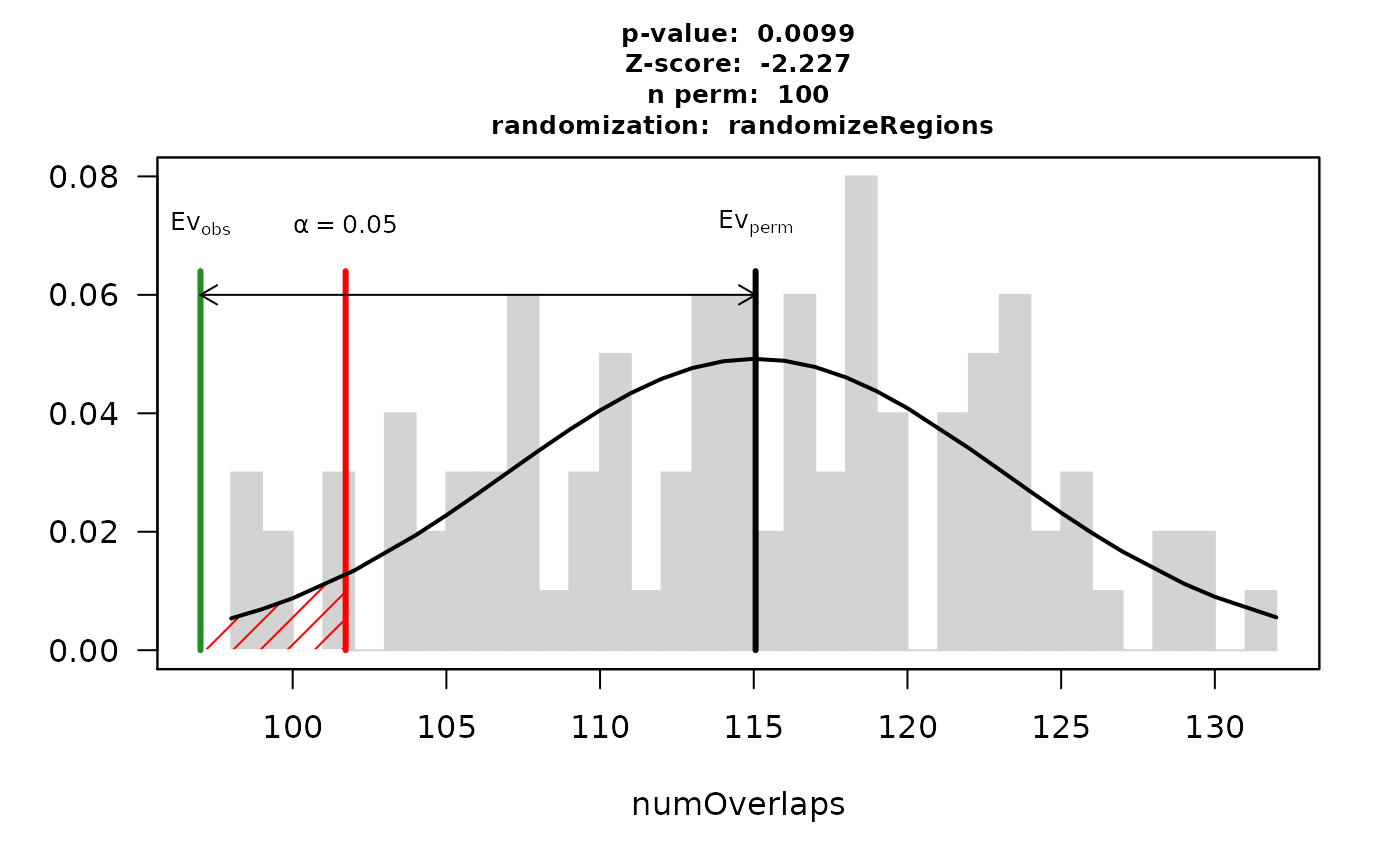
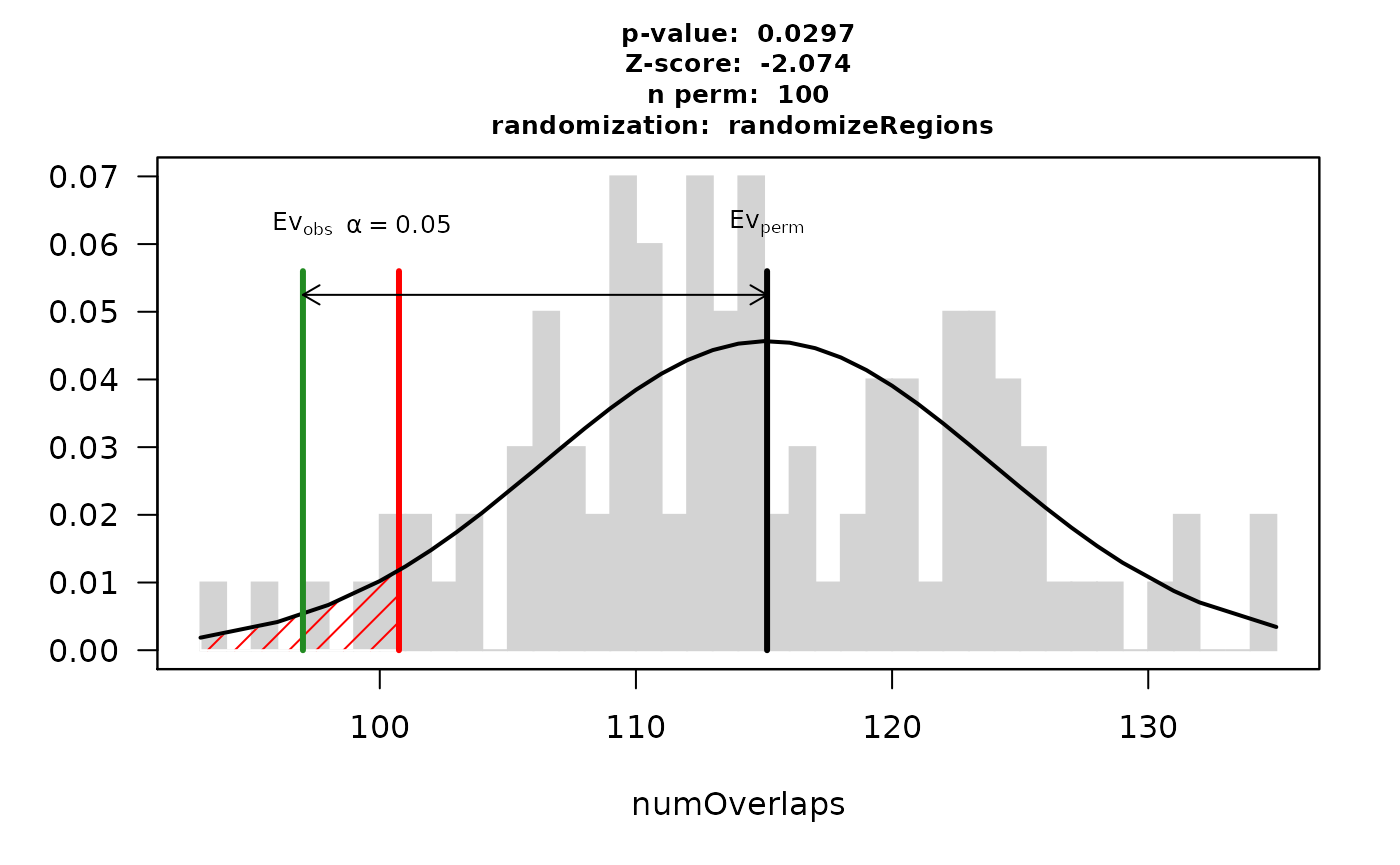
Deploying to gh-pages from  @ bd2509c11ede383ec329590210ebad35e240a6dc 🚀

diff --git a/articles/Geistlinger_CNVWorkshop.html b/articles/Geistlinger_CNVWorkshop.html
@@ -593,17 +593,17 @@ RaggedExperiment object schematic. Rows and columns represent genomic ranges and
 <pre><code>## DataFrame with 711 rows and 2 columns
 ##             weight       fcr
 ##          &lt;numeric&gt; &lt;numeric&gt;
-## NE001357   1176.20      6.44
-## NE001358   1289.06      6.61
-## NE001359   1078.48      6.45
-## NE001360   1200.02      4.65
-## NE001361   1030.02      5.44
+## NE001357   1273.89      6.33
+## NE001358    948.57      5.64
+## NE001359   1223.83      5.08
+## NE001360   1166.69      8.42
+## NE001361   1004.45      6.15
 ## ...            ...       ...
-## NE003962   1275.23      6.90
-## NE003963   1104.32      5.98
-## NE003966   1111.41      6.15
-## NE003967   1194.52      5.39
-## NE003968    987.77      6.38</code></pre>
+## NE003962   1088.90      7.25
+## NE003963   1070.24      5.35
+## NE003966   1270.36      6.12
+## NE003967   1061.96      6.88
+## NE003968   1116.48      4.60</code></pre>
 </div>
 </div>
 <div id="summarizing-individual-cnv-calls-across-a-population" class="section level3">
@@ -695,7 +695,7 @@ RaggedExperiment object schematic. Rows and columns represent genomic ranges and
 <div class="sourceCode" id="cb59"><pre class="downlit sourceCode r">
 <code class="sourceCode R"><span class="kw"><a href="https://rdrr.io/r/base/library.html">library</a></span><span class="op">(</span><span class="va">AnnotationHub</span><span class="op">)</span>
 <span class="va">ah</span> <span class="op">&lt;-</span> <span class="fu">AnnotationHub</span><span class="fu">::</span><span class="fu"><a href="https://rdrr.io/pkg/AnnotationHub/man/AnnotationHub-class.html">AnnotationHub</a></span><span class="op">(</span><span class="op">)</span></code></pre></div>
-<pre><code>## using temporary cache /tmp/RtmphNFqpH/BiocFileCache</code></pre>
+<pre><code>## using temporary cache /tmp/RtmpLQImfA/BiocFileCache</code></pre>
 <pre><code>## snapshotDate(): 2020-10-27</code></pre>
 <div class="sourceCode" id="cb62"><pre class="downlit sourceCode r">
 <code class="sourceCode R"><span class="va">ahDb</span> <span class="op">&lt;-</span> <span class="fu">AnnotationHub</span><span class="fu">::</span><span class="fu"><a href="https://rdrr.io/pkg/AnnotationHub/man/AnnotationHub-class.html">query</a></span><span class="op">(</span><span class="va">ah</span>, pattern <span class="op">=</span> <span class="fu"><a href="https://rdrr.io/r/base/c.html">c</a></span><span class="op">(</span><span class="st">"Bos taurus"</span>, <span class="st">"EnsDb"</span><span class="op">)</span><span class="op">)</span>
@@ -846,8 +846,8 @@ RaggedExperiment object schematic. Rows and columns represent genomic ranges and
     genome<span class="op">=</span><span class="st">"bosTau6"</span>, mask<span class="op">=</span><span class="cn">NA</span>, per.chromosome<span class="op">=</span><span class="cn">TRUE</span>, count.once<span class="op">=</span><span class="cn">TRUE</span><span class="op">)</span><span class="op">)</span>
 <span class="va">res</span></code></pre></div>
 <pre><code>## $numOverlaps
-## P-value: 0.0099009900990099
-## Z-score: -2.2272
+## P-value: 0.0297029702970297
+## Z-score: -2.074
 ## Number of iterations: 100
 ## Alternative: less
 ## Evaluation of the original region set: 97
@@ -859,8 +859,8 @@ RaggedExperiment object schematic. Rows and columns represent genomic ranges and
 <div class="sourceCode" id="cb78"><pre class="downlit sourceCode r">
 <code class="sourceCode R"><span class="fu"><a href="https://rdrr.io/r/base/summary.html">summary</a></span><span class="op">(</span><span class="va">res</span><span class="op">[[</span><span class="fl">1</span><span class="op">]</span><span class="op">]</span><span class="op">$</span><span class="va">permuted</span><span class="op">)</span></code></pre></div>
 <pre><code>##    Min. 1st Qu.  Median    Mean 3rd Qu.    Max. 
-##    98.0   108.0   115.0   115.1   122.0   132.0</code></pre>
-<p>The resulting permutation <em>p</em>-value indicates a significant depletion. Out of the 303 CNV regions, 97 overlap with at least one gene. In contrast, when repeatedly drawing random regions matching the CNV regions in size and chromosomal distribution, the mean number of overlapping regions across permutations was 115.1 <span class="math inline">\(\pm\)</span> 8.1.</p>
+##    93.0   110.0   114.0   115.1   122.2   135.0</code></pre>
+<p>The resulting permutation <em>p</em>-value indicates a significant depletion. Out of the 303 CNV regions, 97 overlap with at least one gene. In contrast, when repeatedly drawing random regions matching the CNV regions in size and chromosomal distribution, the mean number of overlapping regions across permutations was 115.1 <span class="math inline">\(\pm\)</span> 8.7.</p>
 <p>This finding is consistent with our observations across the whole genome (<a href="https://doi.org/10.1371/journal.pone.0157711">da Silva et al., 2016</a>) and findings from the 1000 Genomes Poject (<a href="https://www.nature.com/articles/nature15394">Sudmant et al., 2015</a>).</p>
 <div class="sourceCode" id="cb80"><pre class="downlit sourceCode r">
 <code class="sourceCode R"><span class="fu"><a href="https://rdrr.io/r/graphics/plot.default.html">plot</a></span><span class="op">(</span><span class="va">res</span><span class="op">)</span></code></pre></div>

diff --git a/index.html b/index.html
@@ -86,7 +86,7 @@
 <a href="#instructors-names-and-contact-information" class="anchor"></a>Instructor(s) name(s) and contact information</h1>
 <p>Ludwig Geistlinger, Marcel Ramos, Sehyun Oh, and Levi Waldron</p>
 <p>CUNY School of Public Health 55 W 125th St, New York, NY 10027</p>
-<p><a href="mailto:Ludwig_Geistlinger@hms.harvard.edu" class="email">Ludwig_Geistlinger@hms.harvard.edu</a> <a href="mailto:Marcel.Ramos@sph.cuny.edu" class="email">Marcel.Ramos@sph.cuny.edu</a><br><a href="mailto:Sehyun.Oh@sph.cuny.edu" class="email">Sehyun.Oh@sph.cuny.edu</a><br><a href="mailto:Levi.Waldron@sph.cuny.edu" class="email">Levi.Waldron@sph.cuny.edu</a></p>
+<p><a href="mailto:Ludwig_Geistlinger@hms.harvard.edu" class="email">Ludwig_Geistlinger@hms.harvard.edu</a><br><a href="mailto:Marcel.Ramos@sph.cuny.edu" class="email">Marcel.Ramos@sph.cuny.edu</a><br><a href="mailto:Sehyun.Oh@sph.cuny.edu" class="email">Sehyun.Oh@sph.cuny.edu</a><br><a href="mailto:Levi.Waldron@sph.cuny.edu" class="email">Levi.Waldron@sph.cuny.edu</a></p>
 </div>
 <div id="workshop-description" class="section level1">
 <h1 class="hasAnchor">
